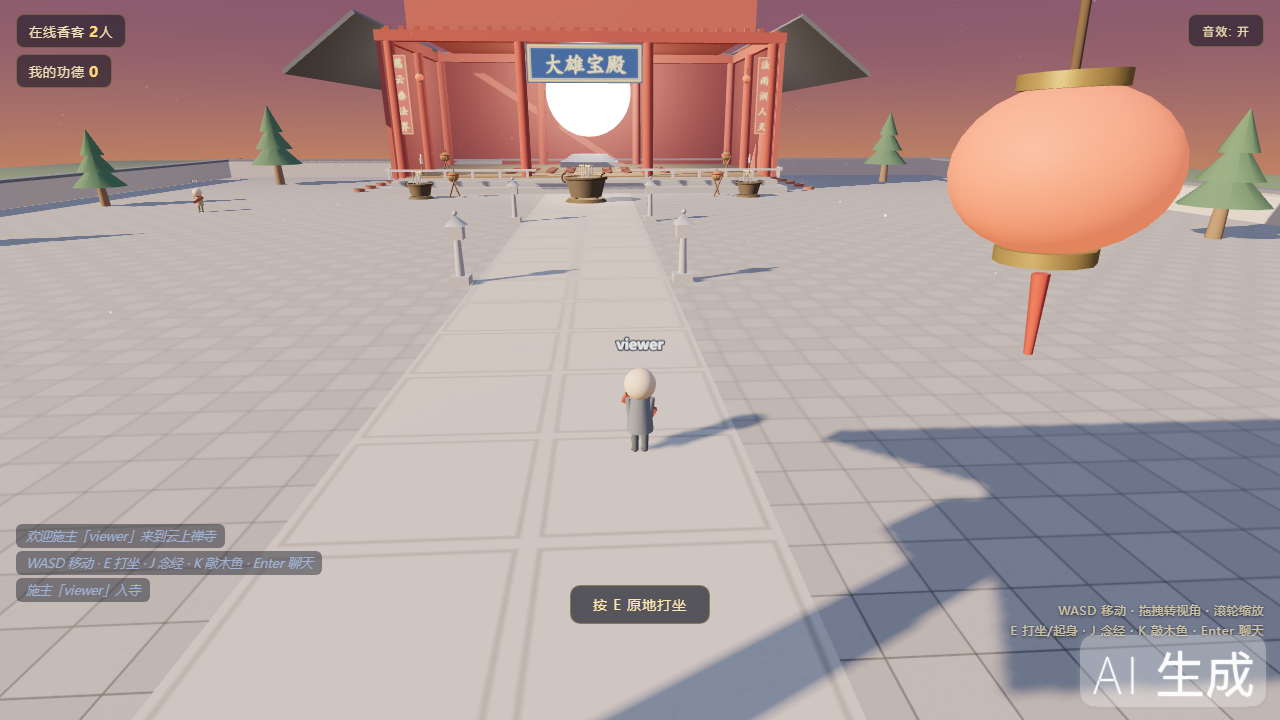
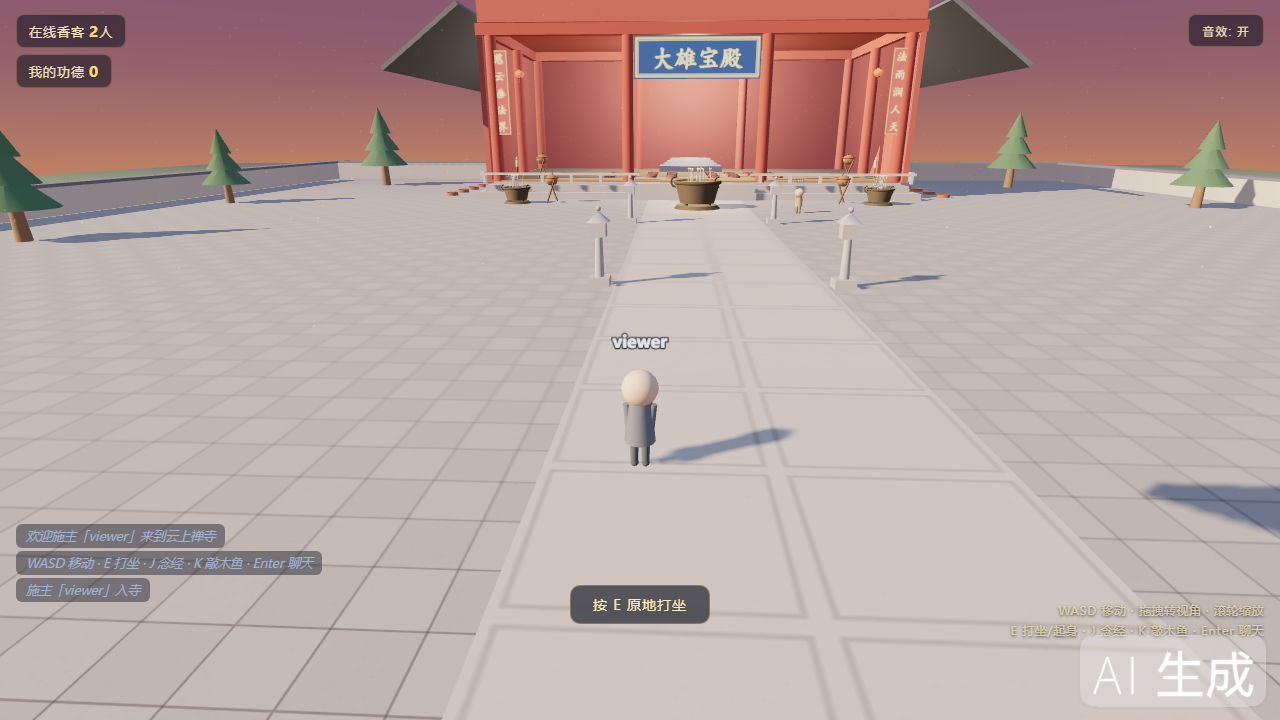
v2

diff --git a/public/index.html b/public/index.html
@@ -211,9 +211,9 @@ sun.shadow.camera.near=5; sun.shadow.camera.far=160;
   sun.shadow.bias=-0.0015;
 scene.add(sun);
   const buddhaLight = new THREE.PointLight(0xffd9a0, 2.4, 28, 2);
-  buddhaLight.position.set(0, 10.5, -33); scene.add(buddhaLight);
-const burnerLight = new THREE.PointLight(0xff9040, 0.6, 8, 2);
-burnerLight.position.set(0, 2.6, -13); scene.add(burnerLight);
+  buddhaLight.position.set(0, 10.5, -30); scene.add(buddhaLight);
+  const burnerLight = new THREE.PointLight(0xff9040, 0.6, 8, 2);
+  burnerLight.position.set(0, 2.6, -10); scene.add(burnerLight);
 
 /* ---------------- 纹理工厂 ---------------- */
 function makeCanvas(w,h){ const c=document.createElement('canvas'); c.width=w; c.height=h; return c; }
@@ -517,8 +517,8 @@ function nearestBurner(x,z){
   const b = burnerAt(x,z);
   return (b && dist2D(x,z,b.x,b.z)<3.6) ? b : null;
 }
-buildBurner(0,-13,1);
-buildBurner(-13,-16,0.62); buildBurner(13,-16,0.62);
+  buildBurner(0,-10,1);
+  buildBurner(-13,-13,0.62); buildBurner(13,-13,0.62);
 
 /* 大殿通用构件：木鱼架 / 烛台 */
 function buildFish(fx,fz,baseY){
@@ -574,9 +574,17 @@ function dumpScene(){
   scene.traverse(o=>{ if(o.isMesh){ b.setFromObject(o); const c=b.getCenter(new THREE.Vector3()); const s=b.getSize(new THREE.Vector3());
     console.log('[dump] c=('+c.x.toFixed(1)+','+c.y.toFixed(1)+','+c.z.toFixed(1)+') s=('+s.x.toFixed(1)+','+s.y.toFixed(1)+','+s.z.toFixed(1)+') '+(o.name||o.geometry.type)+(o.isInstancedMesh?'(inst)':'')); } });
 }
-/* 弥勒宝殿 */
+/* 大雄宝殿 */
 function buildRoofTile(){ return mat(0x3a4450,{roughness:0.85}); }
 (function buildHall(){
+  /* 整体南移 3m：IIFE 内全部 mesh 先收进 hallAll 组，末尾统一位移（北墙不再贴场景边缘） */
+  const hallAll = new THREE.Group();
+  const _sceneAdd = scene.add.bind(scene);
+  const _addCollider = addCollider;
+  const collidersTodo = [];
+  const cushionStart = cushions.length;
+  scene.add = function(){ for(let i=0;i<arguments.length;i++) hallAll.add(arguments[i]); };
+  addCollider = function(x,z,r){ collidersTodo.push([x,z,r]); };
   const H = 1.2; // 台基顶
   const pillarMat = mat(0x9e2b25,{roughness:0.7});
   const wallMat = mat(0xa8352f,{roughness:0.85});
@@ -589,29 +597,36 @@ function buildRoofTile(){ return mat(0x3a4450,{roughness:0.85}); }
   const t2 = new THREE.Mesh(new THREE.BoxGeometry(32.6,0.5,20.6), stoneMat); t2.position.set(0,0.75,-30); t2.receiveShadow=true;
   const t3 = new THREE.Mesh(new THREE.BoxGeometry(31.6,0.2,19.6), stoneMat); t3.position.set(0,1.1,-30); t3.receiveShadow=true;
   scene.add(t1,t2,t3);
-  /* 台基石栏杆（南缘留台阶口，东西两缘） */
+  /* 台基石栏杆（南缘留台阶口，东西两缘；柱底贴台面，附碰撞防穿行） */
   const balMat = mat(0xb8bec6,{roughness:0.9});
   for(let i=0;i<6;i++){
     const bal = new THREE.Mesh(new THREE.BoxGeometry(0.22,0.75,0.22), balMat);
-    bal.position.set(-16.2+i*2.25, 1.6, -19.2); bal.castShadow=true; scene.add(bal);
+    const bx = -16.2+i*2.25;
+    bal.position.set(bx, 1.575, -19.2); bal.castShadow=true; scene.add(bal);
+    addCollider(bx,-19.2,0.45);
   }
   for(let i=0;i<6;i++){
     const bal = new THREE.Mesh(new THREE.BoxGeometry(0.22,0.75,0.22), balMat);
-    bal.position.set(16.2-i*2.25, 1.6, -19.2); bal.castShadow=true; scene.add(bal);
+    const bx = 16.2-i*2.25;
+    bal.position.set(bx, 1.575, -19.2); bal.castShadow=true; scene.add(bal);
+    addCollider(bx,-19.2,0.45);
   }
-  const railSL = new THREE.Mesh(new THREE.BoxGeometry(12.3,0.18,0.28), balMat); railSL.position.set(-10.35,1.9,-19.2); scene.add(railSL);
+  const railSL = new THREE.Mesh(new THREE.BoxGeometry(12.3,0.18,0.28), balMat); railSL.position.set(-10.35,1.875,-19.2); scene.add(railSL);
   const railSR = railSL.clone(); railSR.position.x=10.35; scene.add(railSR);
-  for(let i=0;i<8;i++){
+  for(let i=0;i<15;i++){
+    const bz = -21.5-i*1.2;
     const bal = new THREE.Mesh(new THREE.BoxGeometry(0.22,0.75,0.22), balMat);
-    bal.position.set(-16.75, 1.6, -21.5-i*2.4); bal.castShadow=true; scene.add(bal);
+    bal.position.set(-16.75, 1.575, bz); bal.castShadow=true; scene.add(bal);
     const bal2 = bal.clone(); bal2.position.x=16.75; scene.add(bal2);
+    addCollider(-16.75,bz,0.5); addCollider(16.75,bz,0.5);
   }
-  const railE2 = new THREE.Mesh(new THREE.BoxGeometry(0.28,0.18,19.4), balMat); railE2.position.set(-16.75,1.9,-30.3); scene.add(railE2);
+  const railE2 = new THREE.Mesh(new THREE.BoxGeometry(0.28,0.18,19.4), balMat); railE2.position.set(-16.75,1.875,-30.3); scene.add(railE2);
   const railW2 = railE2.clone(); railW2.position.x=16.75; scene.add(railW2);
-  /* 大台阶（宽 9）*/
+  /* 大台阶（宽 9，实心阶梯：每级从地面堆到该级顶，消除首级底部悬空） */
   for(let i=0;i<5;i++){
-    const step = new THREE.Mesh(new THREE.BoxGeometry(9,0.3,0.66), stoneMat);
-    step.position.set(0, 1.05-0.3*i, -18.9-0.66*i); step.receiveShadow=true; step.castShadow=true;
+    const hgt = 1.2-0.24*i;
+    const step = new THREE.Mesh(new THREE.BoxGeometry(9,hgt,0.66), stoneMat);
+    step.position.set(0, hgt/2, -18.9-0.66*i); step.receiveShadow=true; step.castShadow=true;
     scene.add(step);
   }
 
@@ -663,8 +678,8 @@ function buildRoofTile(){ return mat(0x3a4450,{roughness:0.85}); }
   eaveE.rotation.z=0.62; eaveE.position.set(-19.3,eaveY-2.07,-30); eaveE.castShadow=true; scene.add(eaveE);
   const eaveW = eaveE.clone(); eaveW.rotation.z=-0.62; eaveW.position.x=19.3; scene.add(eaveW);
 
-  /* 腰檐层外墙（重檐间：12.5..18.0，南面兼作殿门上方门头墙，南面不设披檐后底部延至额枋顶） */
-  const upperWall = new THREE.Mesh(new THREE.BoxGeometry(28,5.5,17.8), wallMat);
+  /* 腰檐层外墙（重檐间：12.5..18.0，与殿墙同宽使三面披檐上端贴实无悬空；南面兼作殿门上方门头墙） */
+  const upperWall = new THREE.Mesh(new THREE.BoxGeometry(32.4,5.5,19.4), wallMat);
   upperWall.position.set(0,eaveY+2.05,-30); upperWall.castShadow=true; scene.add(upperWall);
 
   /* 主屋顶（双坡：上檐檐口 y18 正贴腰墙顶起坡，脊高 26，陡坡高耸） */
@@ -685,7 +700,7 @@ function buildRoofTile(){ return mat(0x3a4450,{roughness:0.85}); }
   for(const s of [-1,1]){
     const m = new THREE.Mesh(triGeo, wallMat);
     m.rotation.y=s*Math.PI/2;
-    m.position.set(s*14.2, eaveY+7.55, -30.2);
+    m.position.set(s*16.3, eaveY+7.55, -30.2);
     m.castShadow=true; scene.add(m);
   }
 
@@ -747,7 +762,7 @@ function buildRoofTile(){ return mat(0x3a4450,{roughness:0.85}); }
     const bposQ = new URLSearchParams(location.search).get('bpos');
     if(bposQ){ const b=bposQ.split('_').map(Number); buddhaModel.position.set(b[0], b[1], b[2]); }
     buddhaModel.rotation.y = BUDDHA_ROTY;
-    scene.add(buddhaModel);
+    hallAll.add(buddhaModel); /* 加进 hallAll 随殿整体南移 */
     if(new URLSearchParams(location.search).get('dump')) dumpScene();
     console.log('[佛像] 已加入场景, 缩放:', scale.toFixed(2), '位置:', buddhaModel.position.x, buddhaModel.position.y, buddhaModel.position.z);
   }, undefined, (err)=>{ console.error('[佛像] GLB 加载失败:', err); });
@@ -778,6 +793,13 @@ function buildRoofTile(){ return mat(0x3a4450,{roughness:0.85}); }
 
   /* 檐下灯笼（殿前两串，挂披檐下） */
   addLantern(-13.5,H+7.9,-21.4); addLantern(13.5,H+7.9,-21.4);
+  /* 还原劫持：hallAll 整体南移 3m，碰撞与蒲团数据同步补偿 */
+  scene.add = _sceneAdd;
+  addCollider = _addCollider;
+  hallAll.position.z = 3;
+  _sceneAdd(hallAll);
+  collidersTodo.forEach(c=>_addCollider(c[0], c[1]+3, c[2]));
+  for(let i=cushionStart;i<cushions.length;i++) cushions[i].z += 3;
 })();
 
 /* 灯笼（可复用） */
@@ -1196,7 +1218,7 @@ function handleMessage(d){
         playKnockFX(fx, fz, true);
         if(r) r.knockUntil = performance.now()+2600;
       } else if(d.a==='burn'){
-        const b = burnerAt(d.bx||0, d.bz||-13);
+        const b = burnerAt(d.bx||0, d.bz||-10);
         if(b){ addBurnerStick(b); b.boost=6; spawnRipple(b.x, 2.2*b.s+0.3, b.z); }
       }
       break;
@@ -1235,10 +1257,12 @@ function connect(id){
 
 /* ---------------- 地形高度 ---------------- */
 function groundY(x,z){
-  if(Math.abs(x)<14.8 && z<=-20 && z>=-38.2) return 1.2;      // 殿台基上
-  if(Math.abs(x)<3.5 && z<-20 && z>-22.2){                    // 台阶
-    return 1.2*clamp((-20-z)/2.2,0,1);
+  /* 台阶（世界坐标，殿整体南移 3m 后）：5 级阶梯逐级抬升，防走进台阶穿模 */
+  if(Math.abs(x)<4.5 && z<=-15.9 && z>=-18.9){
+    const i = Math.min(4, Math.floor((-15.9-z)/0.66));
+    return 1.2-0.24*i;
   }
+  if(Math.abs(x)<15.5 && z<=-18.6 && z>=-37.5) return 1.2;      // 殿台基上（t3 台面）
   return 0;
 }
 /* 角色目标高度（打坐时贴合蒲团/地面） */
